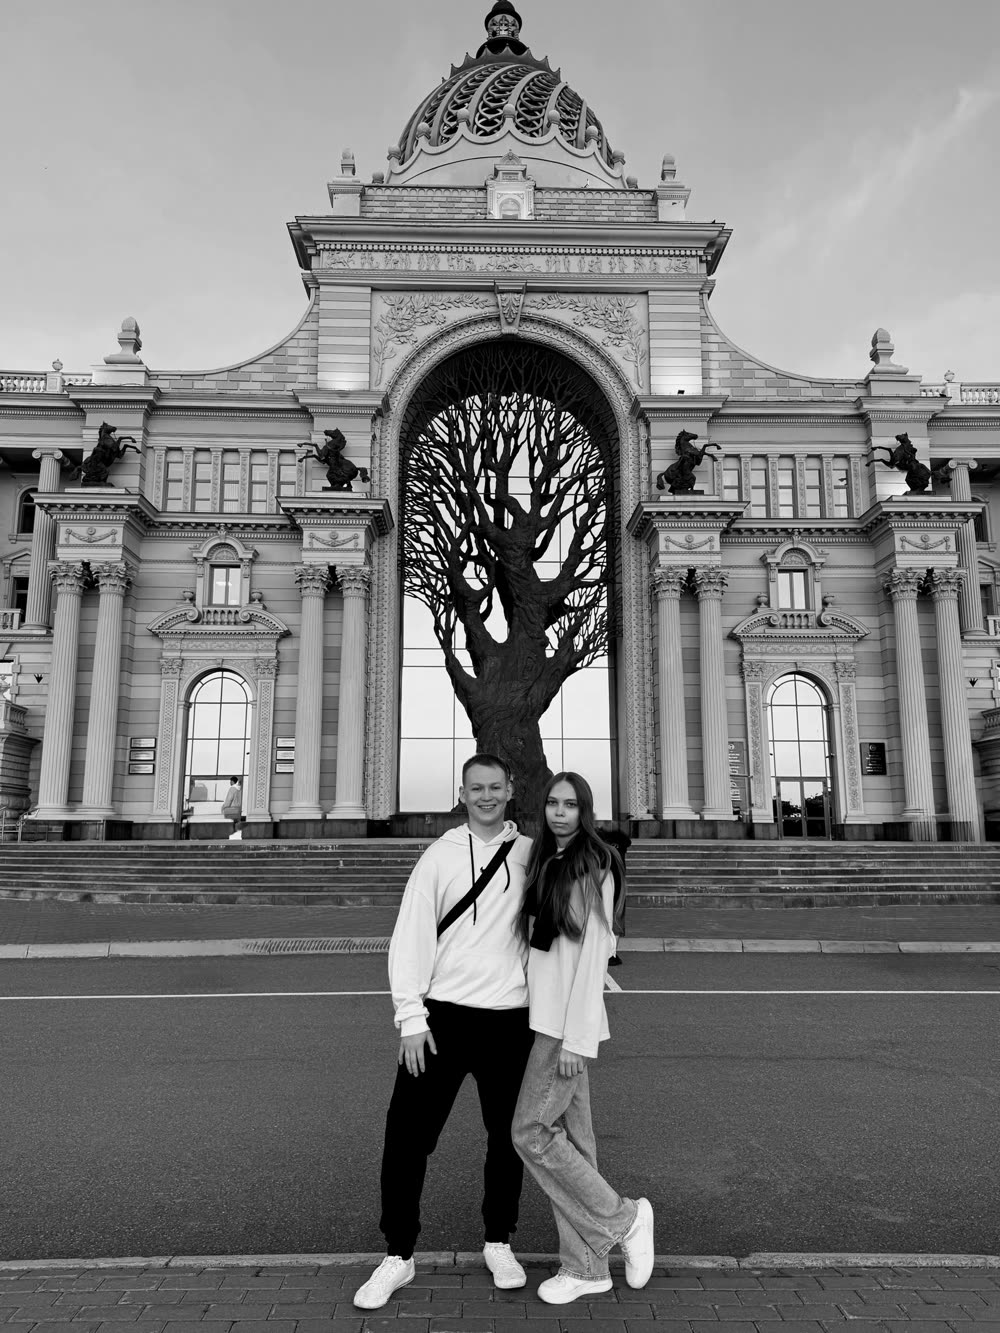
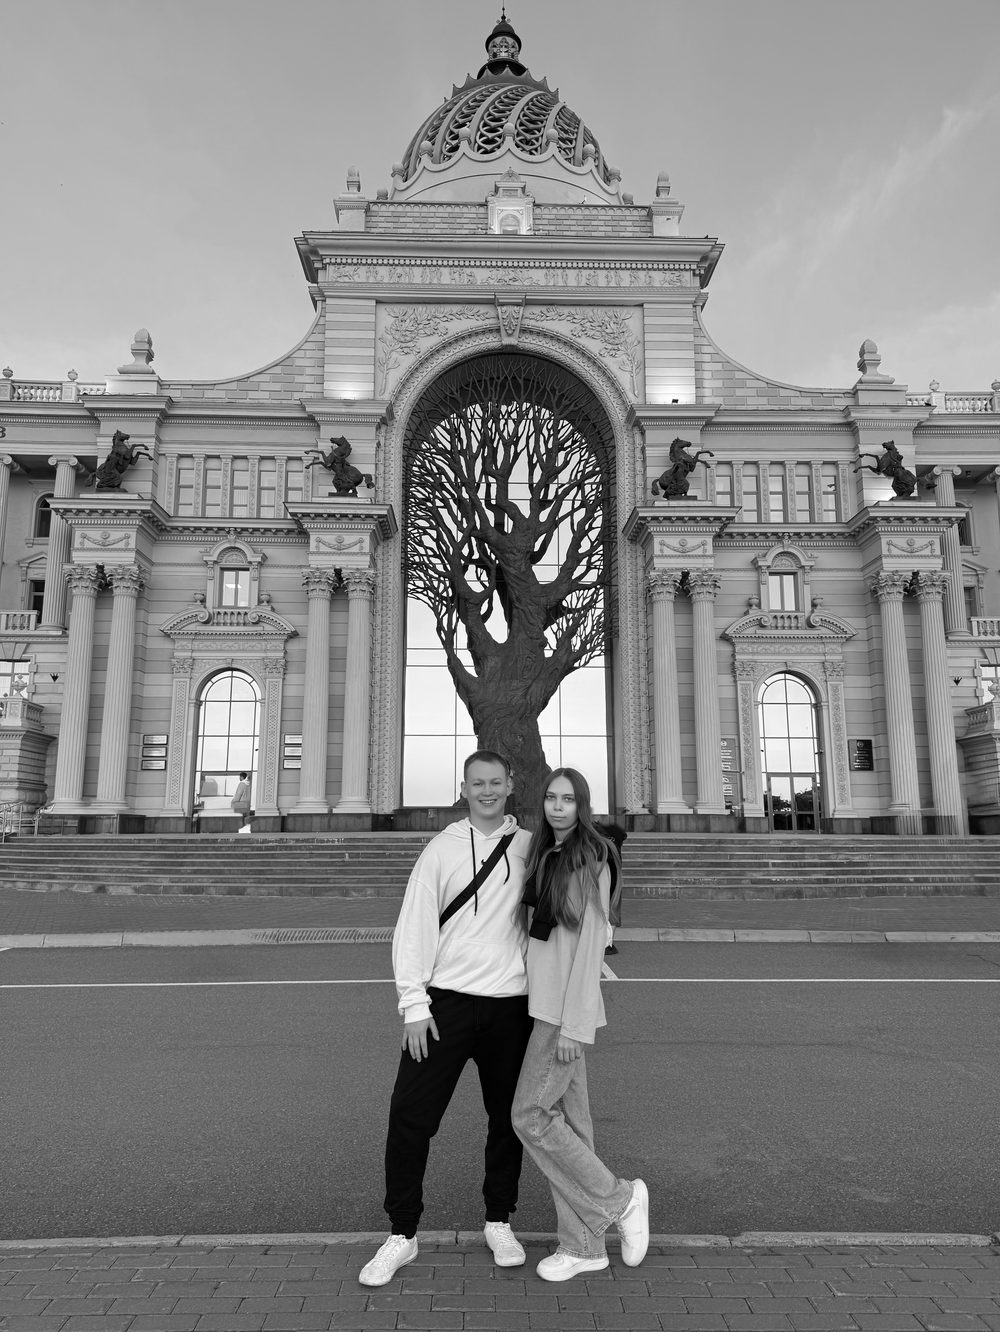
Сургучная печать с объёмными буквами, новое фото, выбор горячего для гостей
Claude-Session: https://claude.ai/code/session_01B4RRdwv2wVPmx9jrMmJ4Xw

diff --git a/index.html b/index.html
@@ -119,20 +119,20 @@ p { margin: 0; }
 }
 .cover-title .script { font-size: clamp(34px, 10vw, 48px); color: var(--milk); }
 .seal {
-  position: absolute; z-index: 4; left: 50%; top: 56%; width: 104px; height: 104px; transform: translate(-50%, -50%);
+  position: absolute; z-index: 4; left: 50%; top: 56%; width: 128px; height: 128px; transform: translate(-50%, -50%);
   display: grid; place-items: center; border: 0; padding: 0; background: none; cursor: pointer;
   transition: transform .7s ease, opacity .7s ease;
 }
 .seal::before {
-  content: ""; position: absolute; inset: 6px; border-radius: 50%;
+  content: ""; position: absolute; inset: 14px; border-radius: 50%;
   box-shadow: 0 0 18px 6px rgba(255,190,110,.55), 0 0 40px 14px rgba(255,170,80,.25);
   animation: glow 2.4s ease-in-out infinite;
 }
 @keyframes glow { 50% { box-shadow: 0 0 26px 10px rgba(255,200,120,.75), 0 0 60px 22px rgba(255,170,80,.35); } }
 .seal svg { position: relative; width: 100%; height: 100%; overflow: visible; }
-.seal-mono { font-family: var(--f-script); font-size: 34px; fill: #E9D3A8; }
+.seal-mono { font-family: var(--f-script); font-size: 38px; fill: url(#goldInk); }
 .tap-hint {
-  position: absolute; z-index: 3; left: 0; right: 0; top: calc(56% + 78px); text-align: center;
+  position: absolute; z-index: 3; left: 0; right: 0; top: calc(56% + 90px); text-align: center;
   font-family: var(--f-caps); font-size: 11px; letter-spacing: .3em; text-transform: uppercase; color: var(--gold-soft);
   animation: pulse 2.2s ease-in-out infinite; transition: opacity .4s;
 }
@@ -151,7 +151,7 @@ p { margin: 0; }
 /* ===== Фото + билет ===== */
 .hero { background: var(--wine-deep); padding-bottom: 64px; }
 .hero-photo { position: relative; max-width: 720px; margin: 0 auto; }
-.hero-photo img { width: 100%; aspect-ratio: 3 / 4; object-fit: cover; filter: grayscale(1) contrast(1.05); }
+.hero-photo img { width: 100%; height: auto; aspect-ratio: 3 / 4; object-fit: cover; filter: grayscale(1) contrast(1.05); }
 .hero-photo::after {
   content: ""; position: absolute; inset: 0;
   background: linear-gradient(180deg, rgba(43,10,18,.72) 0%, rgba(43,10,18,.15) 34%, rgba(43,10,18,0) 55%, rgba(63,15,26,.85) 94%, var(--wine-deep) 100%);
@@ -162,7 +162,7 @@ p { margin: 0; }
 }
 .hero-text .caps { font-family: var(--f-caps); font-size: clamp(26px, 8vw, 44px); letter-spacing: .06em; line-height: 1; }
 .hero-text .script { font-size: clamp(40px, 12vw, 68px); color: var(--gold-soft); margin-top: -6px; }
-.ticket-wrap { padding-left: max(16px, env(safe-area-inset-left, 0px)); padding-right: max(16px, env(safe-area-inset-right, 0px)); margin-top: -110px; position: relative; z-index: 2; }
+.ticket-wrap { padding-left: max(16px, env(safe-area-inset-left, 0px)); padding-right: max(16px, env(safe-area-inset-right, 0px)); margin-top: -36px; position: relative; z-index: 2; }
 .ticket {
   position: relative; max-width: 440px; margin: 0 auto; background: var(--milk); color: var(--wine);
   border-radius: 6px; text-align: center; padding: 30px 24px 26px; display: grid; gap: 6px;
@@ -291,7 +291,13 @@ input[type=text]:focus, textarea:focus { outline: none; border-color: var(--wine
 .guests { display: grid; gap: 10px; padding: 14px; border: 1px dashed var(--gold); background: #fbf6ef; }
 .hint { font-size: 17px; color: var(--ink-soft); font-style: italic; }
 .guest-list { display: grid; gap: 10px; }
+.guest { display: grid; gap: 8px; padding-bottom: 12px; border-bottom: 1px solid var(--gold-soft); }
+.guest:last-child { border-bottom: 0; padding-bottom: 0; }
 .guest-row { display: flex; gap: 8px; align-items: center; }
+.guest-meal { display: flex; flex-wrap: wrap; align-items: center; gap: 8px; font-size: 16px; color: var(--ink-soft); }
+.chip { display: inline-flex; align-items: center; gap: 6px; padding: 6px 12px; border: 1px solid var(--gold-soft); background: #fffdf9; cursor: pointer; font-size: 16px; color: var(--ink); }
+.chip input { accent-color: var(--wine); margin: 0; }
+.chip:has(input:checked) { border-color: var(--wine); background: #fbf3ef; }
 .guest-row input { flex: 1; min-width: 0; }
 .guest-row button { flex: none; width: 44px; height: 46px; border: 1px solid var(--gold-soft); background: #fffdf9; color: var(--wine); font-size: 22px; cursor: pointer; }
 .add-guest { justify-self: start; background: none; border: 0; padding: 6px 0; color: var(--wine); font: inherit; font-size: 18px; text-decoration: underline; text-underline-offset: 4px; cursor: pointer; }
@@ -348,16 +354,63 @@ footer { background: var(--wine-deep); color: rgba(247,241,232,.5); text-align: 
     <p class="script">Кирилл & Анастасия</p>
   </div>
   <div class="seal" aria-hidden="true">
-    <svg viewBox="-60 -60 120 120">
+    <svg viewBox="-64 -64 128 128">
       <defs>
-        <radialGradient id="wax" cx="38%" cy="32%" r="75%">
-          <stop offset="0" stop-color="#a8404f"/><stop offset=".55" stop-color="#6e1828"/><stop offset="1" stop-color="#3f0b16"/>
+        <radialGradient id="wax" cx="36%" cy="30%" r="80%">
+          <stop offset="0" stop-color="#b24a59"/><stop offset=".45" stop-color="#7d1d2f"/><stop offset="1" stop-color="#3d0a15"/>
         </radialGradient>
+        <radialGradient id="well" cx="62%" cy="66%" r="75%">
+          <stop offset="0" stop-color="#8f2a3b"/><stop offset=".7" stop-color="#6a1626"/><stop offset="1" stop-color="#4a0d19"/>
+        </radialGradient>
+        <linearGradient id="goldInk" x1="0" y1="0" x2="0" y2="1">
+          <stop offset="0" stop-color="#f6e3b8"/><stop offset=".5" stop-color="#d7b178"/><stop offset="1" stop-color="#a77c45"/>
+        </linearGradient>
+        <!-- объём капли сургуча -->
+        <filter id="waxRelief" x="-20%" y="-20%" width="140%" height="140%">
+          <feGaussianBlur in="SourceAlpha" stdDeviation="5" result="b"/>
+          <feSpecularLighting in="b" surfaceScale="7" specularConstant=".9" specularExponent="22" lighting-color="#ffd8c8" result="s">
+            <fePointLight x="-60" y="-90" z="90"/>
+          </feSpecularLighting>
+          <feComposite in="s" in2="SourceAlpha" operator="in" result="s2"/>
+          <feComposite in="SourceGraphic" in2="s2" operator="arithmetic" k1="0" k2="1" k3=".55" k4="0" result="lit"/>
+          <feDropShadow in="lit" dx="2" dy="5" stdDeviation="3.5" flood-color="#1a0207" flood-opacity=".7"/>
+        </filter>
+        <!-- вдавленная площадка печати -->
+        <filter id="pressed" x="-20%" y="-20%" width="140%" height="140%">
+          <feOffset in="SourceAlpha" dx="-2.5" dy="-3" result="o"/>
+          <feGaussianBlur in="o" stdDeviation="2.5" result="ob"/>
+          <feComposite in="SourceAlpha" in2="ob" operator="out" result="inner"/>
+          <feFlood flood-color="#1f0309" flood-opacity=".85"/>
+          <feComposite in2="inner" operator="in" result="shade"/>
+          <feOffset in="SourceAlpha" dx="2" dy="2.5" result="o2"/>
+          <feGaussianBlur in="o2" stdDeviation="2" result="o2b"/>
+          <feComposite in="SourceAlpha" in2="o2b" operator="out" result="inner2"/>
+          <feFlood flood-color="#ffc9c9" flood-opacity=".35"/>
+          <feComposite in2="inner2" operator="in" result="hl"/>
+          <feMerge><feMergeNode in="SourceGraphic"/><feMergeNode in="shade"/><feMergeNode in="hl"/></feMerge>
+        </filter>
+        <!-- выпуклые 3D-буквы -->
+        <filter id="letters3d" x="-20%" y="-30%" width="140%" height="160%">
+          <feGaussianBlur in="SourceAlpha" stdDeviation="1.1" result="b"/>
+          <feSpecularLighting in="b" surfaceScale="3.2" specularConstant="1.1" specularExponent="16" lighting-color="#fff4dc" result="s">
+            <fePointLight x="-50" y="-70" z="55"/>
+          </feSpecularLighting>
+          <feComposite in="s" in2="SourceAlpha" operator="in" result="s2"/>
+          <feComposite in="SourceGraphic" in2="s2" operator="arithmetic" k1="0" k2="1" k3=".9" k4="0" result="lit"/>
+          <feOffset in="SourceAlpha" dx="1.6" dy="2.2" result="sh"/>
+          <feGaussianBlur in="sh" stdDeviation="1.3" result="shb"/>
+          <feFlood flood-color="#1a0207" flood-opacity=".85"/>
+          <feComposite in2="shb" operator="in" result="shadow"/>
+          <feOffset in="SourceAlpha" dx="-.8" dy="-.9" result="rim"/>
+          <feFlood flood-color="#ffe9c4" flood-opacity=".55"/>
+          <feComposite in2="rim" operator="in" result="rimc"/>
+          <feMerge><feMergeNode in="shadow"/><feMergeNode in="rimc"/><feMergeNode in="lit"/></feMerge>
+        </filter>
       </defs>
-      <path fill="url(#wax)" d="M0-50C9-51 14-45 22-45 30-44 33-37 39-32 45-27 51-24 50-14 49-6 54 0 52 9 50 18 44 21 41 29 37 37 31 42 22 46 14 50 8 54-1 52-10 51-15 47-23 45-32 42-36 37-41 30-46 23-52 17-51 7-50-1-54-8-50-16-47-25-41-29-35-36-30-42-24-45-15-48-8-50-4-50 0-50Z"/>
-      <circle r="34" fill="none" stroke="rgba(233,211,168,.45)" stroke-width="1.5"/>
-      <circle r="38" fill="none" stroke="rgba(30,4,10,.35)" stroke-width="2"/>
-      <text class="seal-mono" text-anchor="middle" dominant-baseline="central" y="2">К&amp;А</text>
+      <path filter="url(#waxRelief)" fill="url(#wax)" d="M0-52C9-54 15-47 23-47 32-46 35-38 41-33 47-28 54-24 53-14 52-6 57 1 55 10 53 19 46 23 43 31 39 39 32 44 23 48 14 52 8 57-1 55-10 54-16 49-24 47-34 44-38 38-43 31-48 24-55 17-54 7-53-1-57-9-53-17-50-26-43-30-37-37-31-44-25-47-16-50-9-52-4-52 0-52Z"/>
+      <circle r="36" fill="url(#well)" filter="url(#pressed)"/>
+      <circle r="31.5" fill="none" stroke="#b9925c" stroke-width="1" stroke-dasharray="1.2 2.2" opacity=".75"/>
+      <text class="seal-mono" filter="url(#letters3d)" text-anchor="middle" dominant-baseline="central" y="3">К&amp;А</text>
     </svg>
   </div>
   <p class="tap-hint">Нажмите на печать</p>
@@ -562,6 +615,11 @@ footer { background: var(--wine-deep); color: rgba(247,241,232,.5); text-align: 
         <label class="opt"><input type="radio" id="f-att-yes" name="attend" value="Да"> Да, с удовольствием приду</label>
         <label class="opt"><input type="radio" id="f-att-no" name="attend" value="Нет"> К сожалению, не смогу</label>
       </fieldset>
+      <fieldset id="foodSet">
+        <legend>Что вы предпочитаете на горячее?</legend>
+        <label class="opt"><input type="radio" id="f-meal-chicken" name="meal" value="Курица"> Курица</label>
+        <label class="opt"><input type="radio" id="f-meal-fish" name="meal" value="Рыба"> Рыба</label>
+      </fieldset>
       <fieldset id="companySet">
         <legend>Вы придёте один(одна) или с кем-то?</legend>
         <label class="opt"><input type="radio" id="f-co-alone" name="company" value="Один"> Приду один / одна</label>
@@ -580,10 +638,6 @@ footer { background: var(--wine-deep); color: rgba(247,241,232,.5); text-align: 
         <label class="opt"><input type="checkbox" id="f-dr-4" name="drinks" value="Крепкие напитки"> Крепкие напитки</label>
         <label class="opt"><input type="checkbox" id="f-dr-5" name="drinks" value="Без алкоголя"> Без алкоголя</label>
       </fieldset>
-      <div id="foodSet">
-        <label class="flabel" for="f-food">Есть ли аллергии или особенности питания?</label>
-        <input type="text" id="f-food" name="food" placeholder="Например, не ем морепродукты">
-      </div>
       <div>
         <label class="flabel" for="f-wish">Пожелание или комментарий</label>
         <textarea id="f-wish" name="wish" placeholder="Можно оставить пустым"></textarea>
@@ -754,8 +808,11 @@ let guestSeq = 0;
 function addGuestRow(focus) {
   const id = 'f-guest-' + (++guestSeq);
   const row = document.createElement('div');
-  row.className = 'guest-row';
-  row.innerHTML = `<input type="text" id="${id}" name="guest" placeholder="Имя и фамилия гостя" aria-label="Имя и фамилия гостя"><button type="button" aria-label="Убрать гостя">×</button>`;
+  row.className = 'guest';
+  row.innerHTML = `<div class="guest-row"><input type="text" id="${id}" name="guest" placeholder="Имя и фамилия гостя" aria-label="Имя и фамилия гостя"><button type="button" aria-label="Убрать гостя">×</button></div>
+    <div class="guest-meal"><span>Горячее:</span>
+      <label class="chip"><input type="radio" id="${id}-chicken" name="${id}-meal" value="Курица"> Курица</label>
+      <label class="chip"><input type="radio" id="${id}-fish" name="${id}-meal" value="Рыба"> Рыба</label></div>`;
   row.querySelector('button').addEventListener('click', () => {
     row.remove();
     if (!guestList.children.length) addGuestRow(false);
@@ -780,19 +837,31 @@ form.addEventListener('submit', async (e) => {
   if (!name) problems.push('укажите имя и фамилию');
   if (!attend) problems.push('отметьте, сможете ли прийти');
   const company = F['company'].value;
-  const guests = [...guestList.querySelectorAll('input')].map(i => i.value.trim()).filter(Boolean);
+  const meal = F['meal'].value;
+  const party = [...guestList.querySelectorAll('.guest')].map(g => ({
+    name: g.querySelector('input[type=text]').value.trim(),
+    meal: (g.querySelector('input[type=radio]:checked') || {}).value || ''
+  })).filter(g => g.name);
+  const guests = party.map(g => g.name);
   if (attend === 'Да' && !company) problems.push('отметьте, придёте один или с кем-то');
   if (attend === 'Да' && company === 'С гостями' && !guests.length) problems.push('впишите имена гостей, которые придут с вами');
+  if (attend === 'Да' && !meal) problems.push('выберите горячее: курица или рыба');
+  if (attend === 'Да' && company === 'С гостями' && party.some(g => !g.meal)) problems.push('выберите горячее для каждого гостя');
   if (!document.getElementById('f-consent').checked) problems.push('подтвердите согласие на обработку данных');
   if (problems.length) { err.textContent = 'Пожалуйста, ' + problems.join(', ') + '.'; err.hidden = false; return; }
   err.hidden = true;
   const data = {
     name, attend,
     company: attend === 'Да' ? company : '',
-    guests: attend === 'Да' && company === 'С гостями' ? guests.join(', ') : '',
+    guests: attend === 'Да' && company === 'С гостями' ? party.map(g => `${g.name} (${g.meal.toLowerCase()})`).join(', ') : '',
     total: attend === 'Да' ? 1 + (company === 'С гостями' ? guests.length : 0) : 0,
     drinks: [...form.querySelectorAll('input[name=drinks]:checked')].map(i => i.value).join(', '),
-    food: F['food'].value.trim(), wish: F['wish'].value.trim()
+    food: attend === 'Да' ? (() => {
+      const all = [meal].concat(company === 'С гостями' ? party.map(g => g.meal) : []);
+      const c = all.filter(m => m === 'Курица').length, r = all.filter(m => m === 'Рыба').length;
+      return [c ? `Курица ×${c}` : '', r ? `Рыба ×${r}` : ''].filter(Boolean).join(', ');
+    })() : '',
+    wish: F['wish'].value.trim()
   };
   const btn = document.getElementById('submitBtn');
   btn.disabled = true; btn.textContent = 'Отправляем…';
@@ -802,7 +871,7 @@ form.addEventListener('submit', async (e) => {
   }
   document.getElementById('draftNote').hidden = !!RSVP_URL;
   document.getElementById('thanksText').textContent = attend === 'Да'
-    ? (data.guests ? `${name}, мы получили ваш ответ и очень ждём вас и ваших гостей (${data.guests}) 27 марта!` : `${name}, мы получили ваш ответ и очень ждём вас 27 марта!`)
+    ? (guests.length && company === 'С гостями' ? `${name}, мы получили ваш ответ и очень ждём вас и ваших гостей (${guests.join(', ')}) 27 марта!` : `${name}, мы получили ваш ответ и очень ждём вас 27 марта!`)
     : `${name}, спасибо, что ответили. Нам будет вас не хватать!`;
   form.hidden = true; thanks.hidden = false;
   btn.disabled = false; btn.textContent = 'Отправить ответ';
